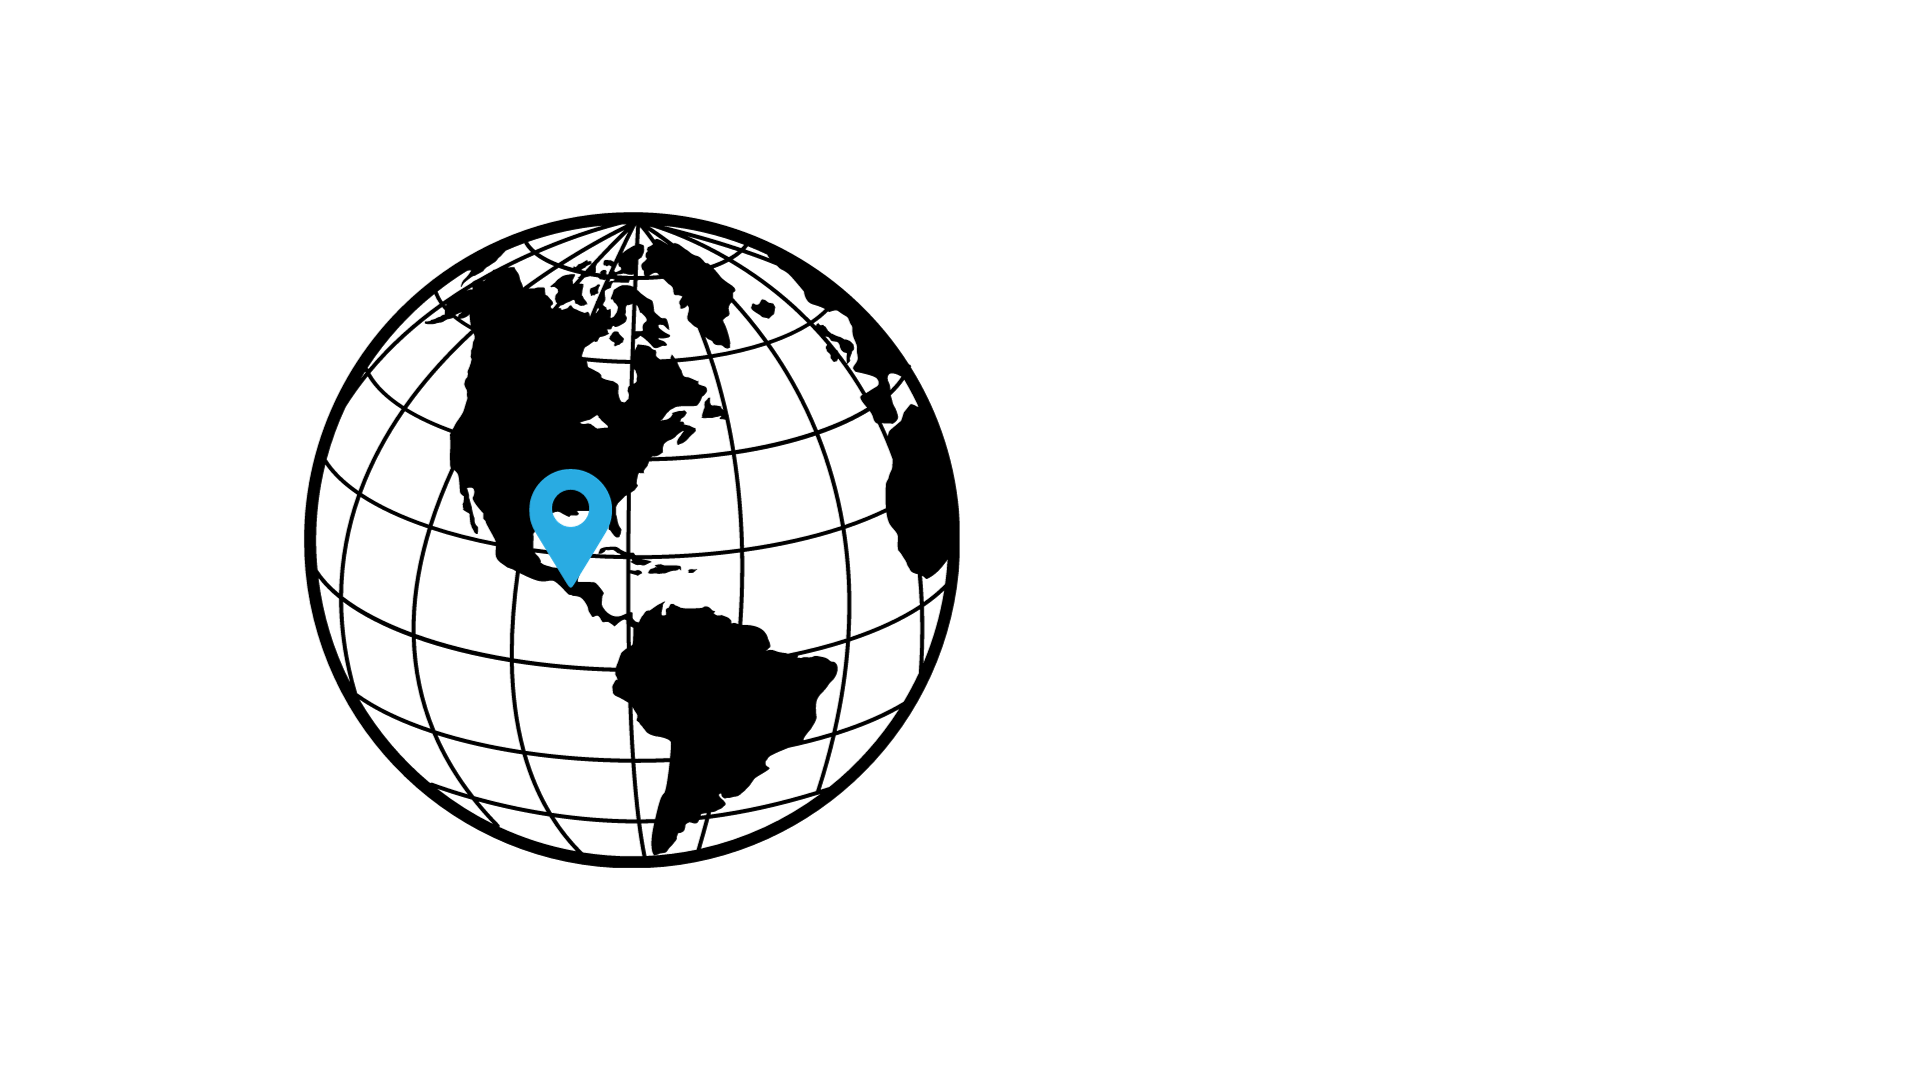
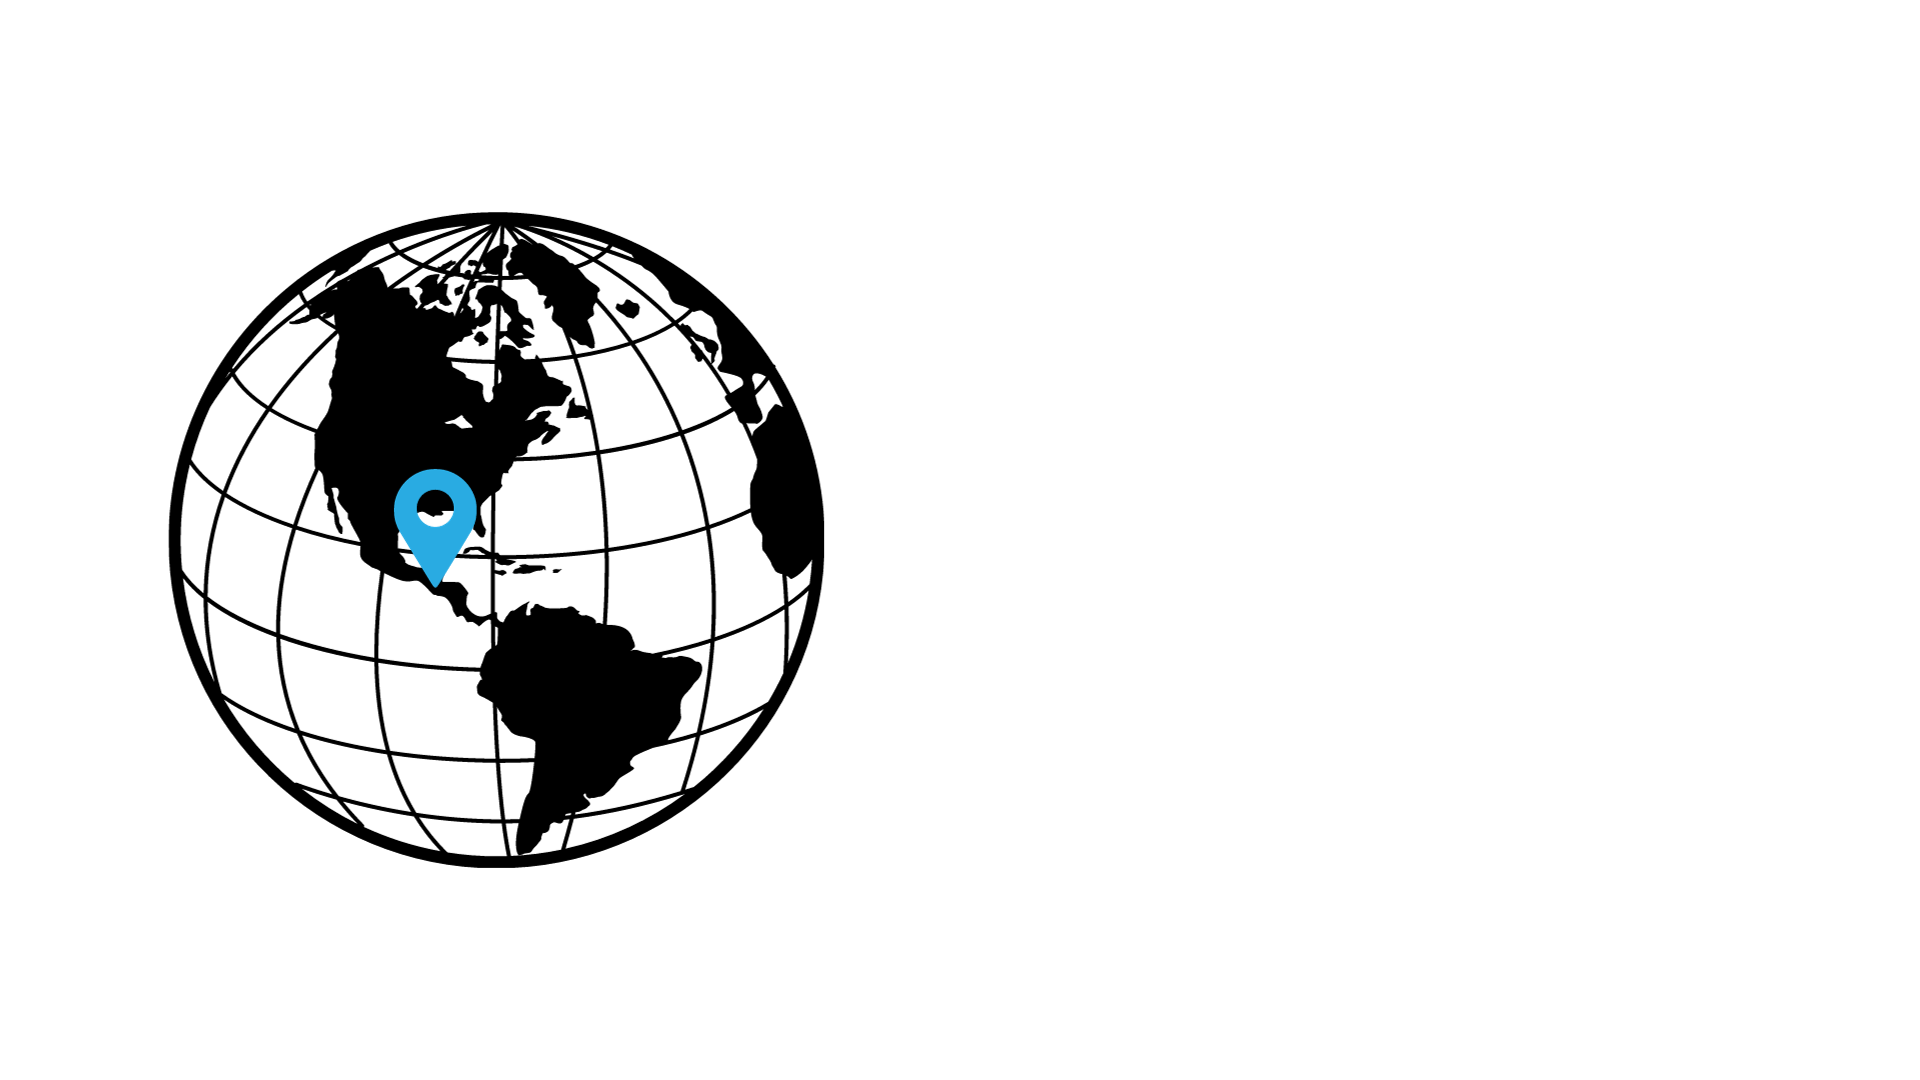
update image

Changed region(s): [[0.0625, 0.1833, 0.5, 0.825]]

diff --git a/src/components/Portfolio/Portfolio.jsx b/src/components/Portfolio/Portfolio.jsx
@@ -19,7 +19,7 @@ const Portfolio = () => {
           </div>
         </div>
         <div className="-ml-12 -mt-12 p-12 lg:sticky lg:top-4 lg:col-start-2 lg:row-span-2 lg:row-start-1 lg:overflow-hidden">
-          <img className="rounded-xl shadow-xl ring-1 ring-black ring-opacity-5 lg:h-full lg:w-auto" src="/images/gtworld.png" alt="" />
+          <img className="w-[48rem] max-w-none rounded-xl  shadow-xl ring-1 ring-gray-400/10 sm:w-[57rem]" src="/images/gtworld.png" alt="" />
         </div>
       </div>
     </div>
